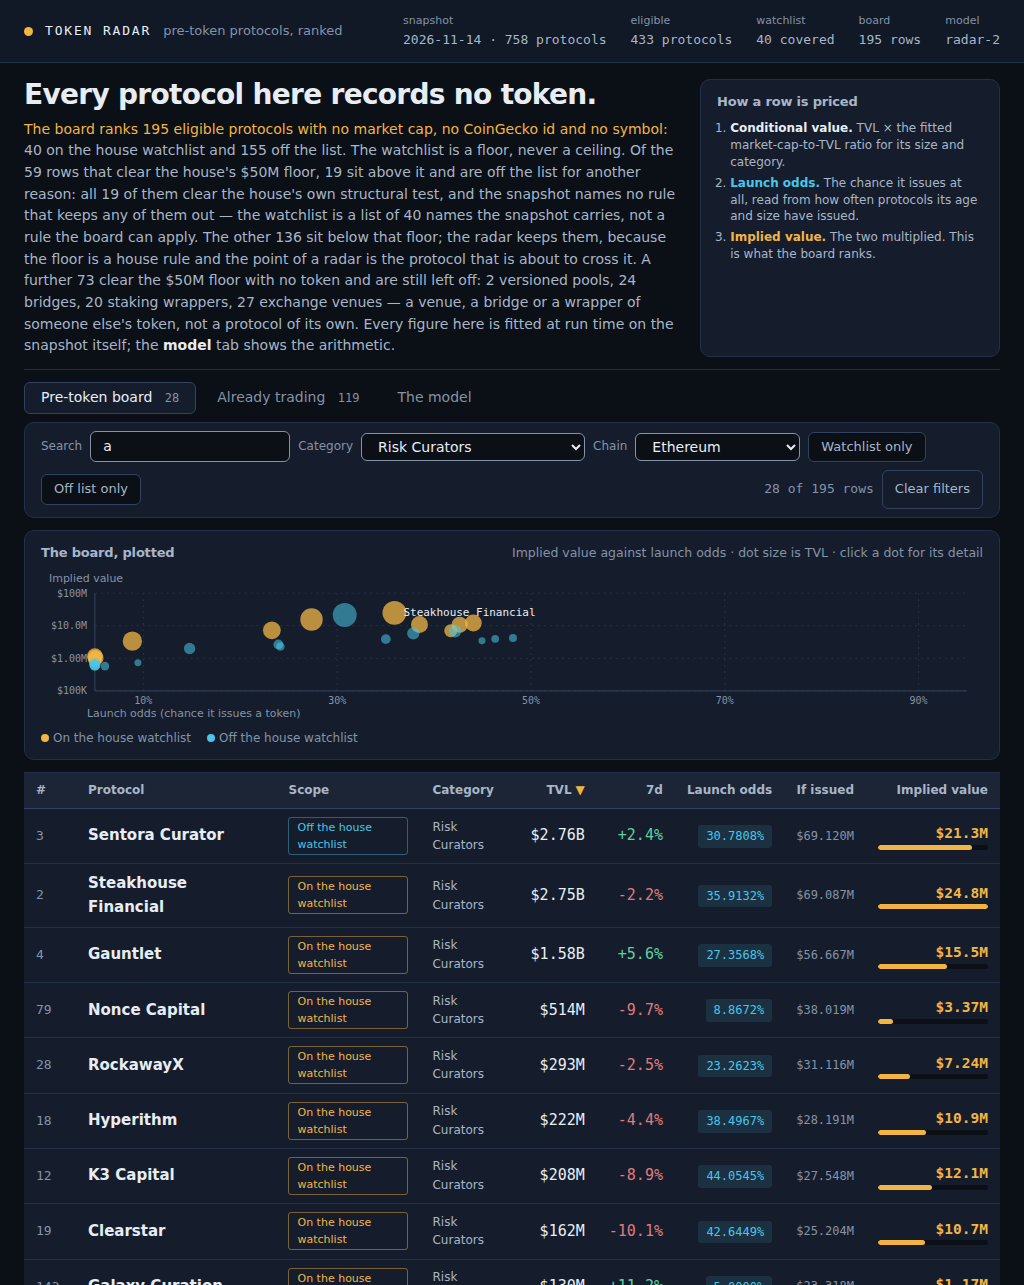
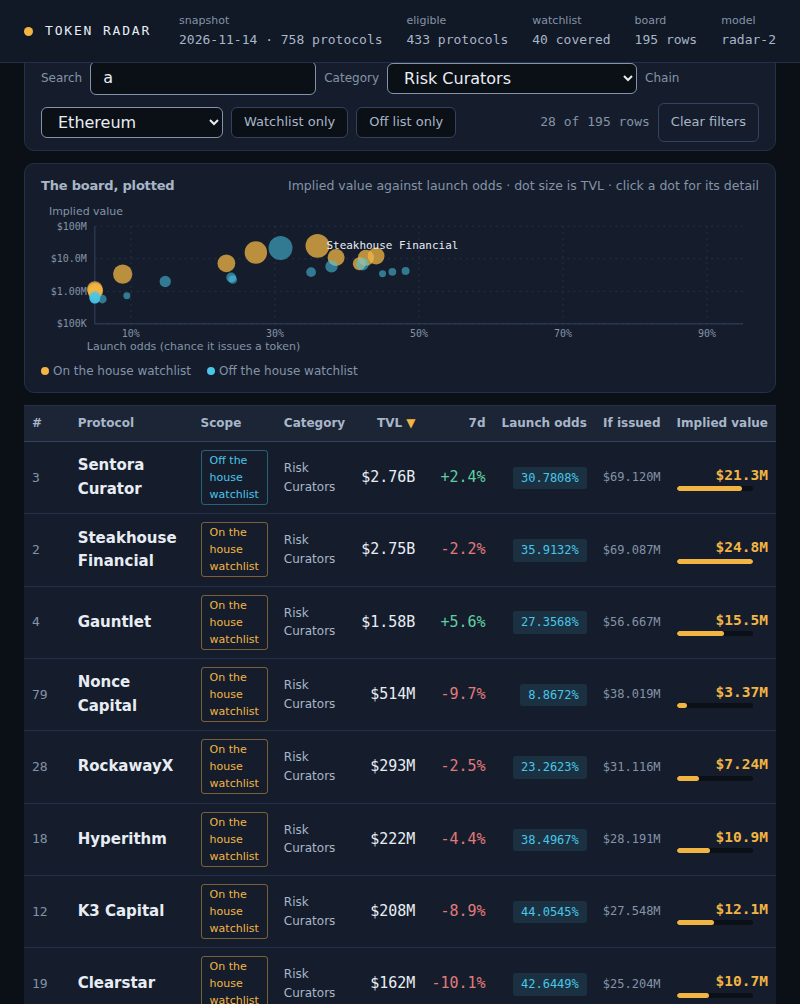
Re-frame the shots so the judge's composed view carries readable text
The judge does not see these PNGs. The kit fits each one into a cell (the
cover into 1024x640, the other two into 510x640 cells on one sheet),
downscales it, and sends that. The fit never enlarges, so what decides a
shot's usefulness is

    12 * min(cell.width / png.width, cell.height / png.height)

-- the PNG's own pixel size. A wider PNG arrives smaller.

Measured in the judge's composed view, the filtered shot used to put 12px
of page text at 6.0px, and five of its six figures read WRONG: 30.7808%
came out as 39.789%, $69.087M as $69.367M, $56.667M as $58.967M. That is
criterion 1's "the screenshots and the code agree" failing inside the
judge's own frame. The cover had the same defect in milder form, and it
was also letterboxed: 1440x1000 is 1.44:1, so it arrived 922x640 in a
1024-wide cell and a tenth of the width was thrown away.

Re-framed, each shot at its cell's own aspect:

  cover   1440x1000 -> 1440x900   7.7px -> 8.5px
  detail   800x1010 -> 800x1010   7.6px (the drawer, clipped and scaled)
  filtered 1024x1285 -> 800x1004  6.0px -> 7.6px

At 7.6px every figure in the filtered table reads correctly, and the cover
reads 70.5577% / 35.9132% / 30.7808% / $69.120M exactly.

The filtered shot is 800 wide because that is where the table still fits
whole: the cell padding drops from 12px to 8px and the implied-value bar
from 110px to 76px, which brings the table's minimum width from 836px to
752px. The desktop layout is unchanged -- the freed room goes to the
[…]

diff --git a/dashboard/theme.css b/dashboard/theme.css
@@ -73,7 +73,7 @@ thead th .arrow{color:var(--value);margin-left:var(--a)}
 /* The wrapper paints a shadow on whichever edge still has table beyond it. */
 .table-wrap{overflow-x:auto;overflow-y:clip;background-image:linear-gradient(var(--panel),var(--panel)),linear-gradient(var(--panel),var(--panel)),linear-gradient(to right,var(--shadow),transparent),linear-gradient(to left,var(--shadow),transparent);background-position:0 50%,100% 50%,0 50%,100% 50%;background-repeat:no-repeat;background-size:16px;background-attachment:local,local,scroll,scroll}
 table{width:100%;border-collapse:collapse}
-thead th{position:sticky;top:var(--bar-h,63px);z-index:10;background:var(--p2);text-align:left;padding:var(--b) var(--c);font-size:12px;color:var(--i2);border-bottom:var(--bv);white-space:nowrap}
+thead th{position:sticky;top:var(--bar-h,63px);z-index:10;background:var(--p2);text-align:left;padding:var(--b) var(--b);font-size:12px;color:var(--i2);border-bottom:var(--bv);white-space:nowrap}
 thead th button{background:none;border:none;padding:0;color:inherit;font:inherit;letter-spacing:inherit;text-transform:inherit}
 thead th.right,td.right{text-align:right}
 tbody tr{border-bottom:var(--bl)}
@@ -81,7 +81,7 @@ tbody tr:last-child,.steps li:last-child{border-bottom:none}
 tbody tr.row:hover,.tab:active,.chip:active,.controls button.ghost:active{background:var(--p2)}
 tbody tr.row:active{background:var(--panel)}
 tbody tr.row:focus-visible{outline:2px solid var(--value);outline-offset:-2px}
-td{padding:var(--b) var(--c);vertical-align:middle}
+td{padding:var(--b) var(--b);vertical-align:middle}
 .pname{font-weight:600}
 .pname .slug{display:block;font-family:var(--mono);font-size:11px;color:var(--i3);font-weight:400}
 .cat,.sheet h3{font-size:12px;color:var(--i2)}
@@ -90,7 +90,7 @@ td{padding:var(--b) var(--c);vertical-align:middle}
 .up{color:var(--up)}
 .down{color:var(--down)}
 .val{font-weight:600;color:var(--value);font-size:14.5px}
-.bar-cell{width:110px}
+.bar-cell{width:76px}
 .bar-track,.curve-row .track{background:var(--bg);border-radius:3px;overflow:hidden}
 .curve-row .track{flex:1;height:16px}
 .bar-track{height:5px}
